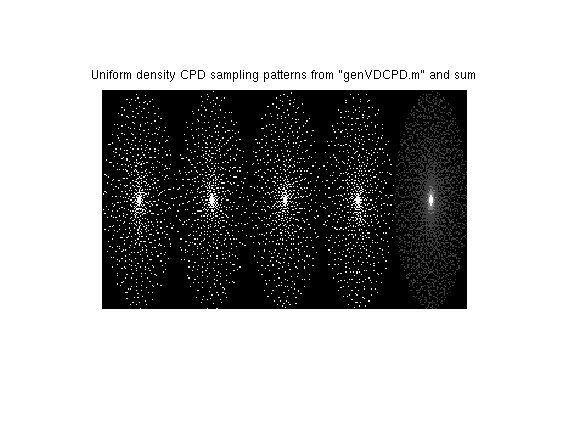
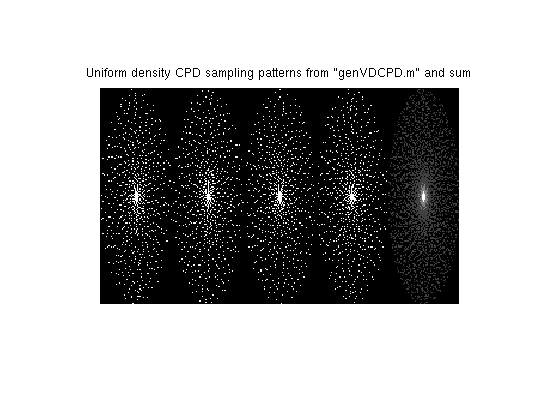
modified:   html/demoCPDAll.html 	modified:   html/demoCPDAll.png 	modified:   html/demoCPDAll_01.png         modified:   html/demoCPDAll_02.png 	modified:   html/demoCPDAll_03.png 	modified:   html/demoCPDAll_04.png 	modified:   src/udcpd.c 	udcpd.c

Changed region(s): [[0.1518, 0.1548, 0.85, 0.7429]]

diff --git a/html/demoCPDAll.html b/html/demoCPDAll.html
@@ -6,7 +6,7 @@
    <!--
 This HTML was auto-generated from MATLAB code.
 To make changes, update the MATLAB code and republish this document.
-      --><title>Complementary Poisson-Disc Sampling</title><meta name="generator" content="MATLAB 8.0"><link rel="schema.DC" href="http://purl.org/dc/elements/1.1/"><meta name="DC.date" content="2016-04-01"><meta name="DC.source" content="demoCPDAll.m"><style type="text/css">
+      --><title>Complementary Poisson-Disc Sampling</title><meta name="generator" content="MATLAB 8.0"><link rel="schema.DC" href="http://purl.org/dc/elements/1.1/"><meta name="DC.date" content="2016-05-15"><meta name="DC.source" content="demoCPDAll.m"><style type="text/css">
 html,body,div,span,applet,object,iframe,h1,h2,h3,h4,h5,h6,p,blockquote,pre,a,abbr,acronym,address,big,cite,code,del,dfn,em,font,img,ins,kbd,q,s,samp,small,strike,strong,sub,sup,tt,var,b,u,i,center,dl,dt,dd,ol,ul,li,fieldset,form,label,legend,table,caption,tbody,tfoot,thead,tr,th,td{margin:0;padding:0;border:0;outline:0;font-size:100%;vertical-align:baseline;background:transparent}body{line-height:1}ol,ul{list-style:none}blockquote,q{quotes:none}blockquote:before,blockquote:after,q:before,q:after{content:'';content:none}:focus{outine:0}ins{text-decoration:none}del{text-decoration:line-through}table{border-collapse:collapse;border-spacing:0}
 
 html { min-height:100%; margin-bottom:1px; }
@@ -81,6 +81,7 @@ Areg = zpad(removeCorners(ones(24,24)), [ny nz]);
 <span class="comment">% Annular region with 2x1 regular under-sampling</span>
 F = removeCorners(ones(ny, nz) - Areg);
 F(1:2:end,:) = 0;
+</pre><pre class="codeoutput">Warning: Name is nonexistent or not a directory: utils 
 </pre><h2>Example 1: Variable density CPD sampling by region-wise UD-CPD<a name="5"></a></h2><pre class="codeinput">Ry = sqrt(ny*nz / sum(sum(F/nt)));
 Rz = Ry;
 R = [Ry Rz];             <span class="comment">% Ry = Rz</span>
@@ -95,7 +96,7 @@ toc;
 figure(1);
 imshow( [reshape(M1, [ny nz*nt]), sum(M1,3)/nt]);
 title(<span class="string">'Uniform density CPD sampling patterns from "genVDCPD.m" and sum'</span>);
-</pre><pre class="codeoutput">Elapsed time is 5.063664 seconds.
+</pre><pre class="codeoutput">Elapsed time is 2.068085 seconds.
 </pre><img vspace="5" hspace="5" src="demoCPDAll_01.png" alt=""> <h2>Example 2: Variable density random sampling by region-wise UD random<a name="7"></a></h2><pre class="codeinput">Ry = sqrt(ny*nz / sum(sum(F/nt)));
 Rz = Ry;
 R = [Ry Rz];             <span class="comment">% Ry = Rz</span>
@@ -110,7 +111,7 @@ toc;
 figure(2);
 imshow( [reshape(M1r, [ny nz*nt]), sum(M1r,3)/nt]);
 title(<span class="string">'Uniform density random sampling patterns from "genVDCPD.m" and sum'</span>);
-</pre><pre class="codeoutput">Elapsed time is 0.116374 seconds.
+</pre><pre class="codeoutput">Elapsed time is 0.080682 seconds.
 </pre><img vspace="5" hspace="5" src="demoCPDAll_02.png" alt=""> <h2>Example 3: Efficient uniform density CPD implementation<a name="9"></a></h2><p>Uniform density sampling is efficiently implemented with a random queue and requires little tuning.</p><pre class="codeinput">tic;
 C = 0.5;
 M2 = genUDCPD(nt,FOVRatio,F,shapeOpt) + repmat(Areg, [1 1 nt]);
@@ -125,17 +126,24 @@ Min. distance criterion: cross
 Max total samples = 4002
 Max # samples per phase: 1001 1001 1000 1000 
 -----------------------------------------------
-It:  1, # Samples:    3503, ky min. dist.: 2.2
+It:  1, # Samples:    3092, ky min. dist.: 1.4
 rand Q empty, breaking...
-It:  2, # Samples:    3503, ky min. dist.: 2.0
-It:  3, # Samples:    3988, ky min. dist.: 1.8
-It:  4, # Samples:    3988, ky min. dist.: 1.6
-It:  5, # Samples:    3988, ky min. dist.: 1.5
-It:  6, # Samples:    3988, ky min. dist.: 1.3
-It:  7, # Samples:    3988, ky min. dist.: 1.2
-It:  8, # Samples:    3988, ky min. dist.: 1.1
-It:  9, # Samples:    4002, ky min. dist.: 1.0
-Elapsed time is 0.169250 seconds.
+It:  2, # Samples:    3092, ky min. dist.: 1.3
+It:  3, # Samples:    3638, ky min. dist.: 1.1
+rand Q empty, breaking...
+It:  4, # Samples:    3638, ky min. dist.: 1.0
+rand Q empty, breaking...
+It:  5, # Samples:    3638, ky min. dist.: 0.9
+rand Q empty, breaking...
+It:  6, # Samples:    3638, ky min. dist.: 0.8
+It:  7, # Samples:    3998, ky min. dist.: 0.8
+It:  8, # Samples:    3998, ky min. dist.: 0.7
+It:  9, # Samples:    3998, ky min. dist.: 0.6
+It: 10, # Samples:    3998, ky min. dist.: 0.5
+It: 11, # Samples:    3998, ky min. dist.: 0.5
+It: 12, # Samples:    3998, ky min. dist.: 0.4
+It: 13, # Samples:    4002, ky min. dist.: 0.4
+Elapsed time is 0.087254 seconds.
 </pre><img vspace="5" hspace="5" src="demoCPDAll_03.png" alt=""> <h2>Example 4: Use of min. distance criterion for temporal phase combination<a name="11"></a></h2><p>Combining multiple phases should preserve the uniformity and incoherence of the Poisson-disc sample distribution. Here different min. distance criteria are compared. The 'cross' parameter generates an ellipse in k-space around any sample drawn and a line through the ellipse along the time axis, fixed at the sample k-space. Subsequent samples are drawn from the region of k-t space outside of the ellipse and line. Parameters 'ellipsoid', 'l1 ball', and 'cones' correspond to other shapes that better preserve the sampling properties after combining temporal phases, as shown in this example.</p><pre class="codeinput">figure(4);
 nt = 20;
 F = removeCorners(ones(100,100));
@@ -150,41 +158,39 @@ Min. distance criterion: cross
 Max total samples = 7825
 Max # samples per phase: 392 392 392 392 392 391 391 391 391 391 391 391 391 391 391 391 391 391 391 391 
 -----------------------------------------------
-It:  1, # Samples:    7110, ky min. dist.: 3.6
-rand Q empty, breaking...
-It:  2, # Samples:    7110, ky min. dist.: 3.2
-It:  3, # Samples:    7774, ky min. dist.: 2.9
-It:  4, # Samples:    7797, ky min. dist.: 2.6
-It:  5, # Samples:    7797, ky min. dist.: 2.3
-It:  6, # Samples:    7821, ky min. dist.: 2.1
-It:  7, # Samples:    7823, ky min. dist.: 1.9
-It:  8, # Samples:    7823, ky min. dist.: 1.7
-It:  9, # Samples:    7823, ky min. dist.: 1.5
-It: 10, # Samples:    7824, ky min. dist.: 1.4
-It: 11, # Samples:    7824, ky min. dist.: 1.2
-It: 12, # Samples:    7824, ky min. dist.: 1.1
-It: 13, # Samples:    7824, ky min. dist.: 1.0
-It: 14, # Samples:    7825, ky min. dist.: 0.9
+It:  1, # Samples:    6548, ky min. dist.: 2.3
+It:  2, # Samples:    7502, ky min. dist.: 2.0
+It:  3, # Samples:    7782, ky min. dist.: 1.8
+It:  4, # Samples:    7782, ky min. dist.: 1.6
+It:  5, # Samples:    7818, ky min. dist.: 1.5
+It:  6, # Samples:    7818, ky min. dist.: 1.3
+It:  7, # Samples:    7819, ky min. dist.: 1.2
+It:  8, # Samples:    7822, ky min. dist.: 1.1
+It:  9, # Samples:    7825, ky min. dist.: 1.0
 ------------- Uniform density CPD -------------
 FOVz/FOVy = 0.40, Dims: 100 100 20
 Min. distance criterion: cones
 Max total samples = 7825
 Max # samples per phase: 392 392 392 392 392 391 391 391 391 391 391 391 391 391 391 391 391 391 391 391 
 -----------------------------------------------
-It:  1, # Samples:    1147, ky min. dist.: 3.6
-It:  2, # Samples:    1492, ky min. dist.: 3.2
-It:  3, # Samples:    2110, ky min. dist.: 2.9
-It:  4, # Samples:    3147, ky min. dist.: 2.6
-It:  5, # Samples:    4145, ky min. dist.: 2.3
-It:  6, # Samples:    5558, ky min. dist.: 2.1
-It:  7, # Samples:    7146, ky min. dist.: 1.9
-It:  8, # Samples:    7788, ky min. dist.: 1.7
-It:  9, # Samples:    7788, ky min. dist.: 1.5
-It: 10, # Samples:    7817, ky min. dist.: 1.4
-It: 11, # Samples:    7817, ky min. dist.: 1.2
-It: 12, # Samples:    7817, ky min. dist.: 1.1
-It: 13, # Samples:    7817, ky min. dist.: 1.0
-It: 14, # Samples:    7825, ky min. dist.: 0.9
+It:  1, # Samples:    2327, ky min. dist.: 2.3
+It:  2, # Samples:    3215, ky min. dist.: 2.0
+It:  3, # Samples:    4390, ky min. dist.: 1.8
+It:  4, # Samples:    5149, ky min. dist.: 1.6
+It:  5, # Samples:    6698, ky min. dist.: 1.5
+It:  6, # Samples:    7742, ky min. dist.: 1.3
+It:  7, # Samples:    7796, ky min. dist.: 1.2
+It:  8, # Samples:    7805, ky min. dist.: 1.1
+It:  9, # Samples:    7822, ky min. dist.: 1.0
+It: 10, # Samples:    7822, ky min. dist.: 0.9
+It: 11, # Samples:    7822, ky min. dist.: 0.8
+It: 12, # Samples:    7822, ky min. dist.: 0.7
+It: 13, # Samples:    7822, ky min. dist.: 0.6
+It: 14, # Samples:    7822, ky min. dist.: 0.6
+It: 15, # Samples:    7822, ky min. dist.: 0.5
+It: 16, # Samples:    7822, ky min. dist.: 0.5
+It: 17, # Samples:    7822, ky min. dist.: 0.4
+It: 18, # Samples:    7825, ky min. dist.: 0.4
 </pre><img vspace="5" hspace="5" src="demoCPDAll_04.png" alt=""> <p class="footer"><br><a href="http://www.mathworks.com/products/matlab/">Published with MATLAB&reg; R2012b</a><br></p></div><!--
 ##### SOURCE BEGIN #####
 %% Complementary Poisson-Disc Sampling

diff --git a/src/udcpd.c b/src/udcpd.c
@@ -325,7 +325,7 @@ void genUDCPD(const long *dims,
     debug_printf("\n-----------------------------------------------\n");
     struct samplingConstraints *constraints = init_constraints(maxSamplesPerPhase, maxTotalSamples, feasiblePoints);
     constraints->dist = init_dst(shapeOpt, FOVRatio);
-    constraints->dist->dky_min = 100*mindist_scale*sqrt(MIN( (0.5f*FOVRatio) / maxSamplesPerPhase[0], MIN(9*pow(FOVRatio,3), 9.0f ) ));
+    constraints->dist->dky_min = 100*(mindist_scale+0.001)*sqrt(MIN( (0.5f*FOVRatio) / maxSamplesPerPhase[0], MIN(9*pow(FOVRatio,3), 9.0f ) ));
     constraints->dist->dt_min  = C*constraints->dist->dky_min;
 
 
